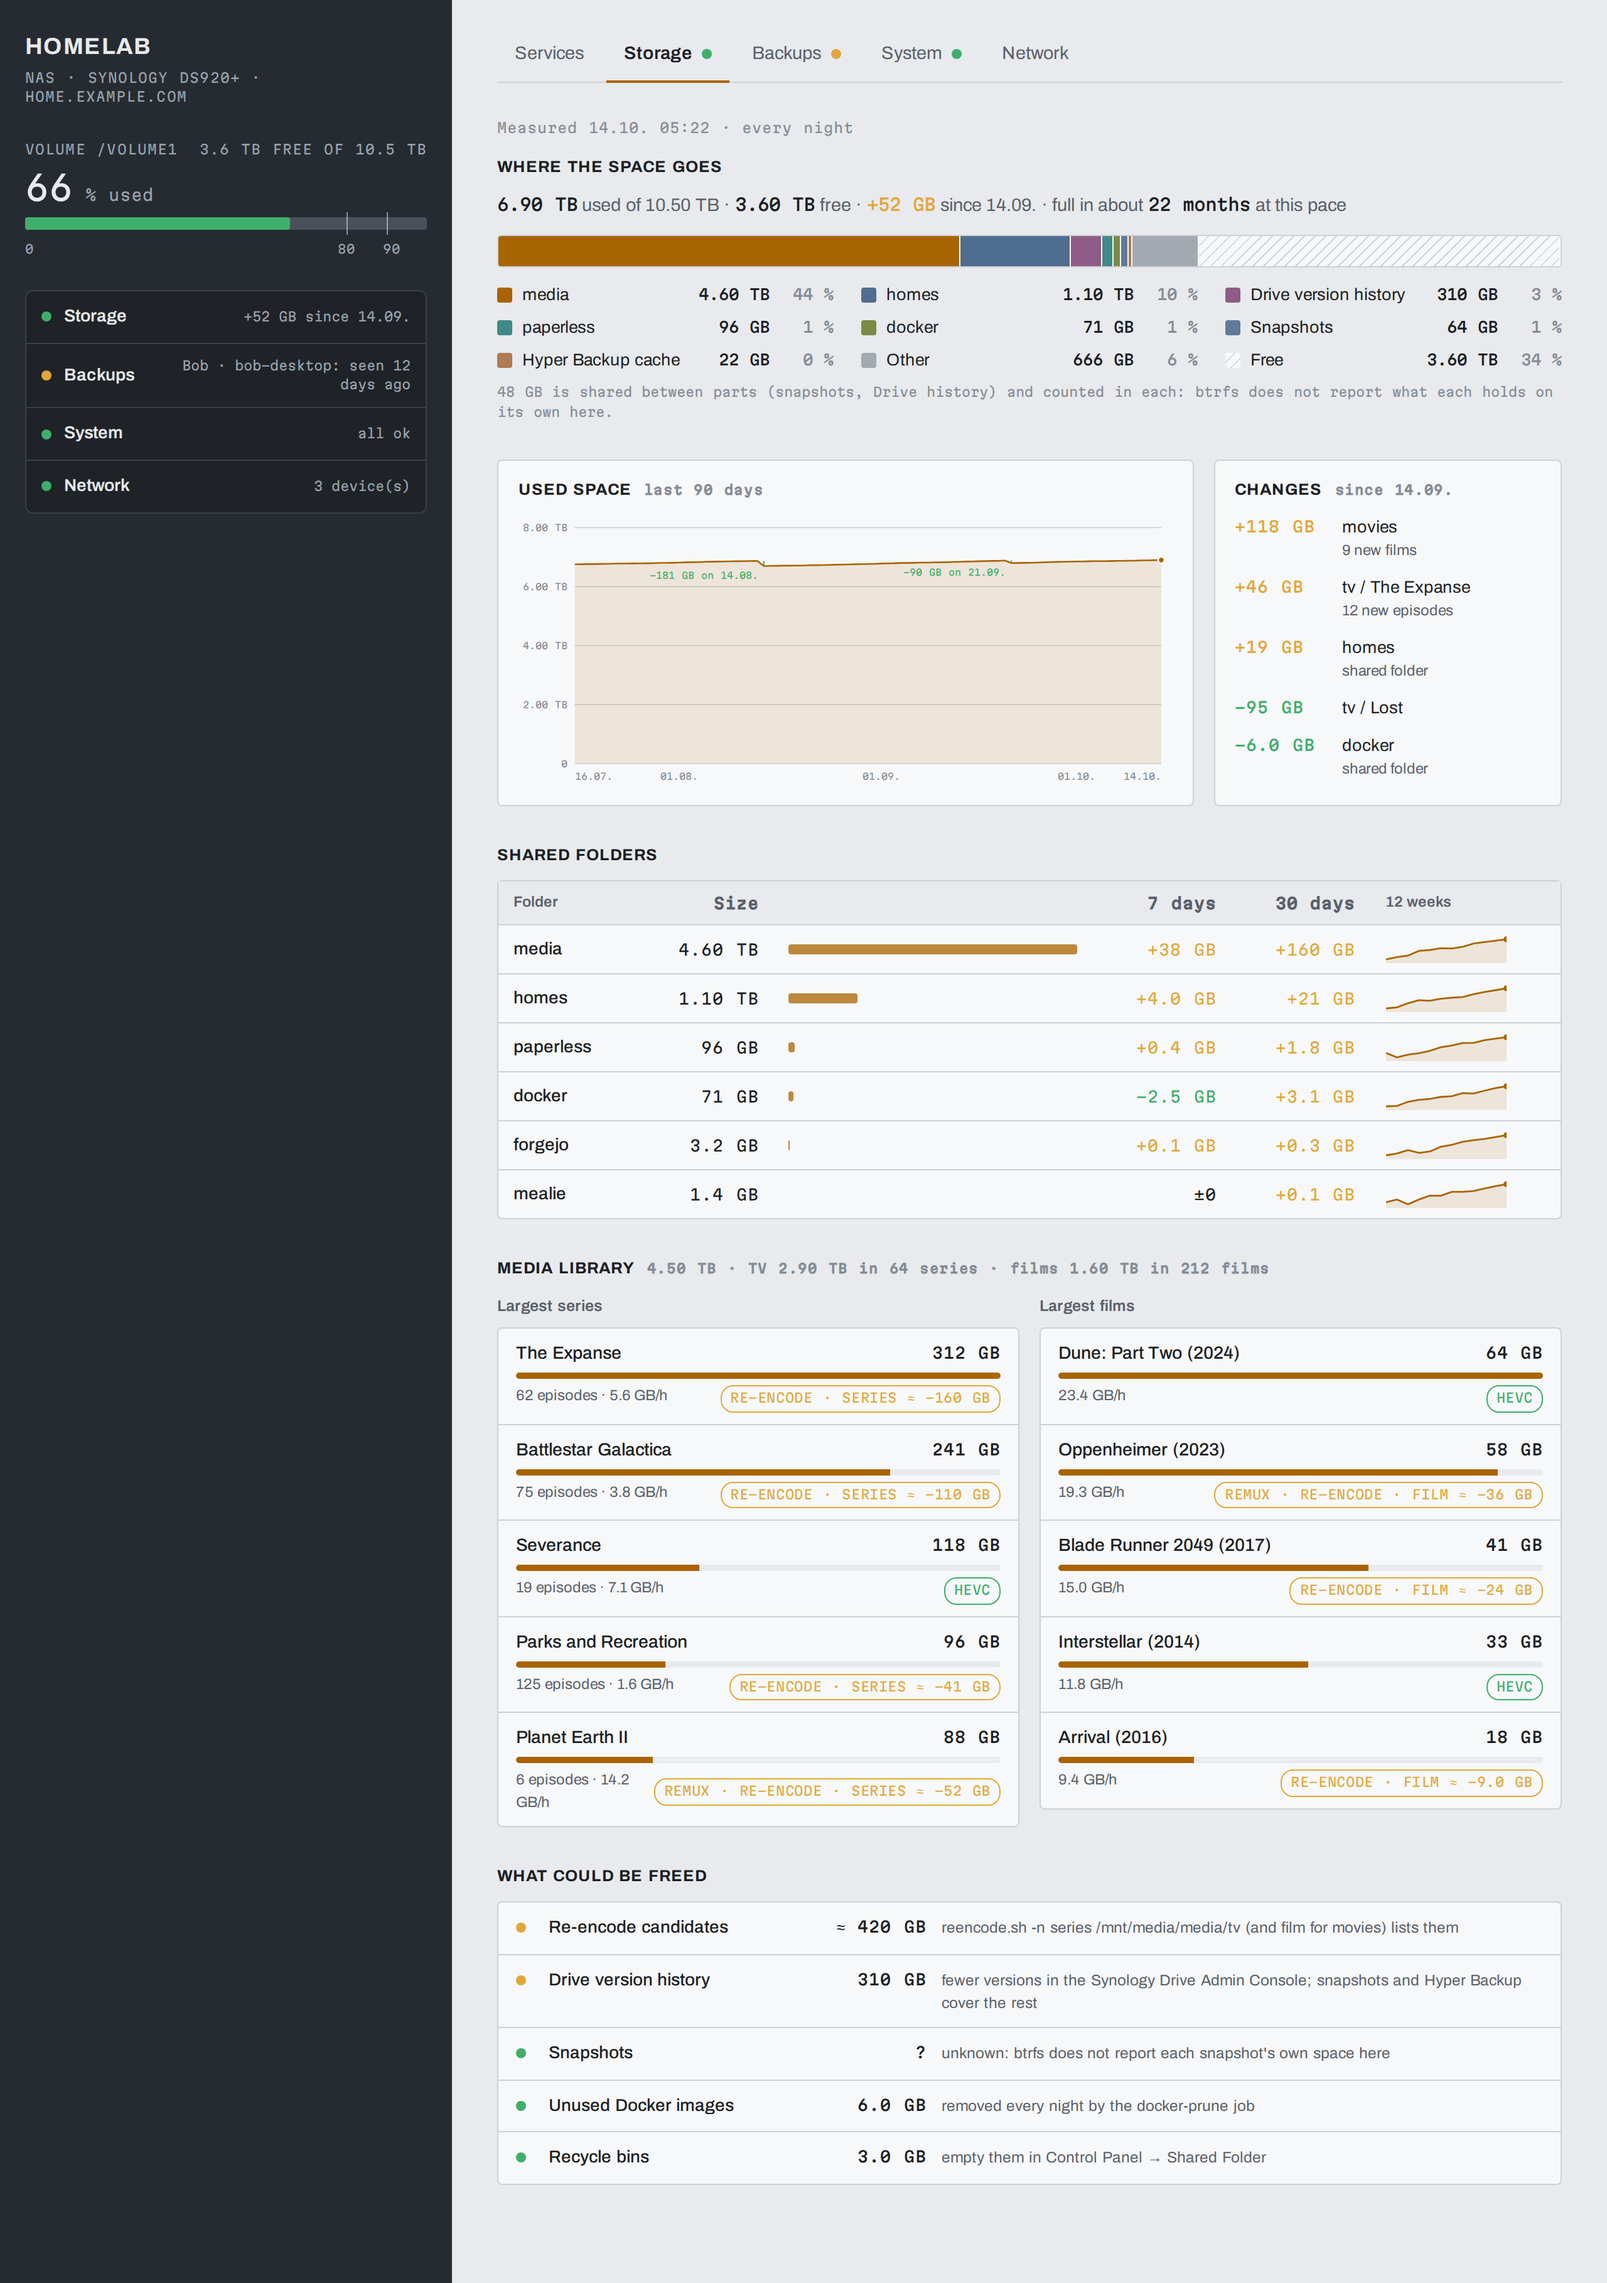
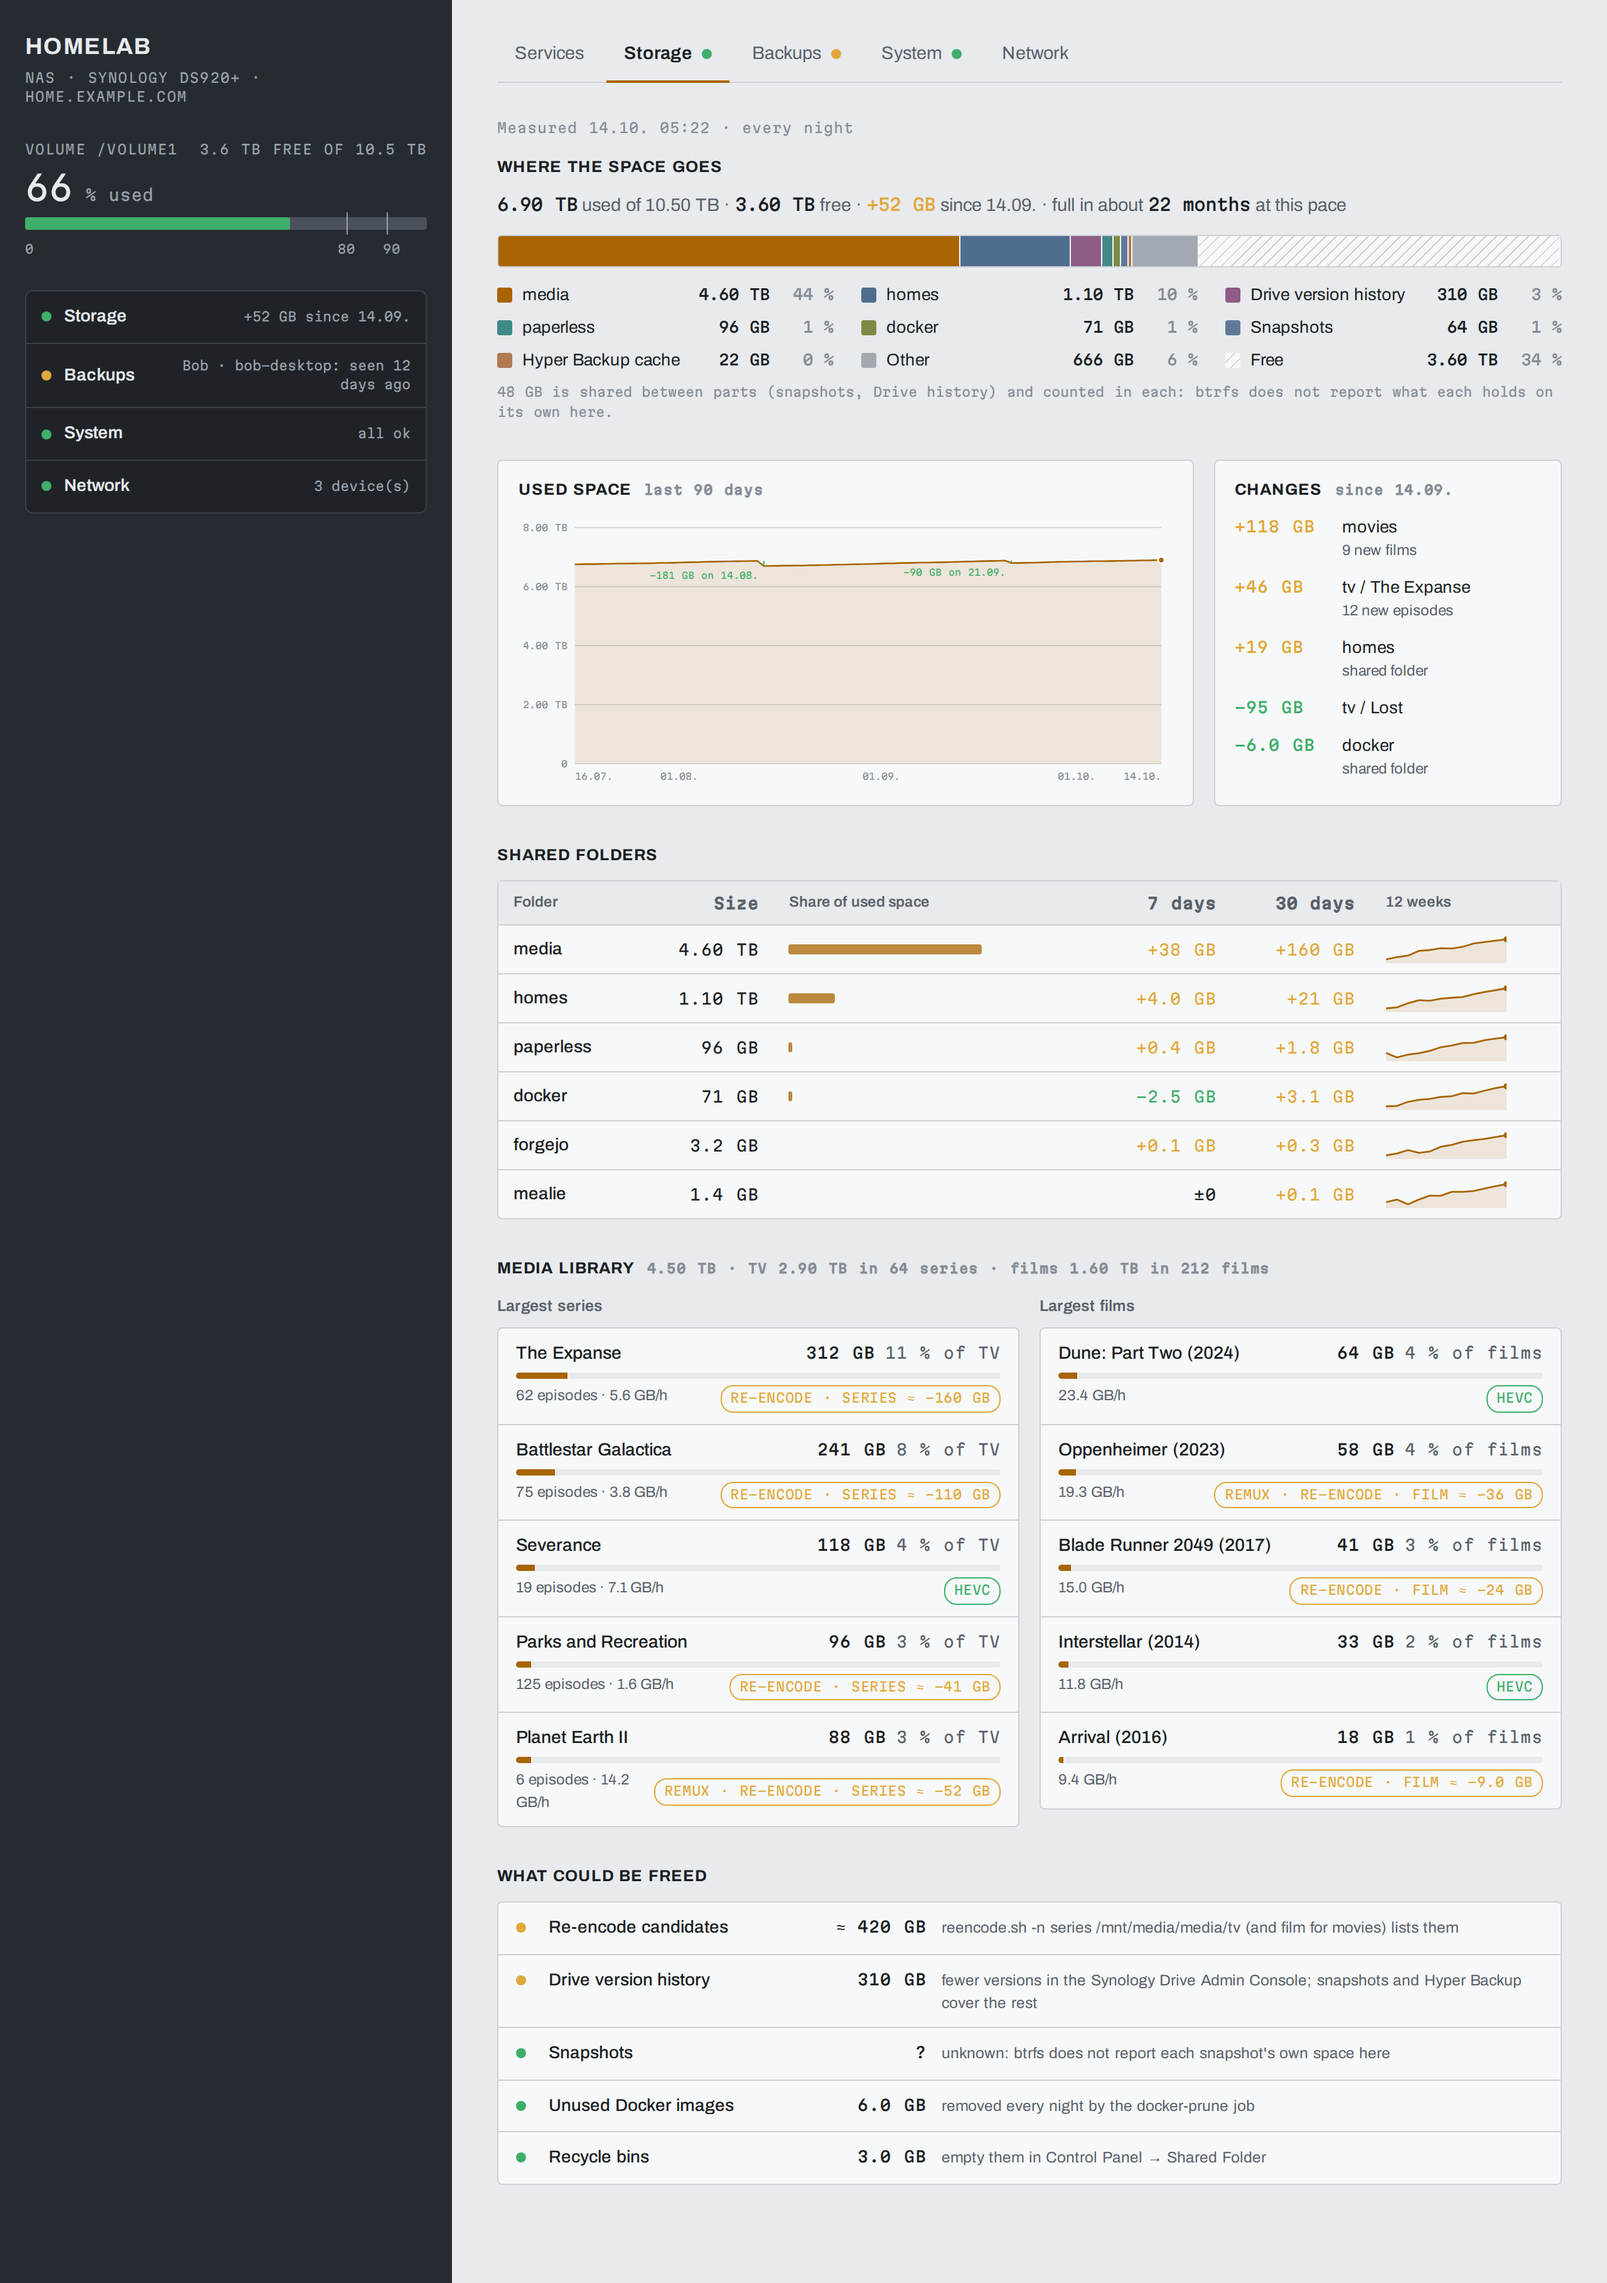
5 changes
- Dashboard: read snapshot names in UTC too
- Guide 11: MikroTik behind a Wi-Fi AP that is itself a router
- Dashboard: bars show a share of a whole, not of the largest row
- Lighter CI, Paperless and image pruning on the DS920+
- Dashboard: say how many containers have a healthcheck

Published-from: 67a83bf58e790482a94c073f86b9be682c977aec

Changed region(s): [[0.8125, 0.5905, 0.9688, 0.6526], [0.5, 0.5905, 0.625, 0.6526], [0.625, 0.404, 0.6562, 0.4351]]

diff --git a/stacks/dashboard/html/index.html b/stacks/dashboard/html/index.html
@@ -702,6 +702,7 @@
     .top small { color: var(--muted); font-size: 0.74rem; }
     .meter { height: 5px; background: var(--bg); border-radius: 3px; overflow: hidden; }
     .meter span { display: block; height: 100%; background: var(--c1); }
+    .top .share { color: var(--muted); font-weight: 400; margin-left: 8px; }
     .tag { font-family: var(--mono); font-size: 0.64rem; letter-spacing: 0.03em; padding: 2px 7px; border-radius: 10px;
         border: 1px solid currentColor; white-space: nowrap; }
     .tag.ok { color: var(--ok); } .tag.warn { color: var(--warn); } .tag.bad { color: var(--bad); }
@@ -1355,8 +1356,14 @@
             var healthy = cs.filter(function (c) { return c.health === 'healthy'; }).length;
             var since = Math.min.apply(null, cs.map(function (c) { return c.started || Infinity; }));
             var txt = up + '/' + cs.length + ' container' + (cs.length > 1 ? 's' : '') + ' running';
-            if (sick) { txt += ', ' + sick + ' unhealthy'; } else if (healthy) { txt += ', ' + healthy + ' healthy'; }
             if (up === cs.length && isFinite(since)) { txt += ', up ' + ago(since, now).replace(' ago', ''); }
+            // Only containers with a healthcheck report health; say how many have one.
+            var checked = sick + healthy;
+            if (sick) { txt += ' · ' + sick + ' unhealthy'; }
+            else if (checked) {
+                txt += ' · ' + (checked === cs.length ? 'all healthy'
+                    : 'healthcheck ok (' + checked + ' of ' + cs.length + ' have one)');
+            }
             return txt;
         }
         var rows = (st.stacks || []).map(function (k) {
@@ -1629,18 +1636,20 @@
         // ---- shared folders
         var s3 = section('Shared folders'), wrap = el('div', 'tbl-wrap'), t = el('table', 'ft');
         var head = el('tr');
-        [['Folder', ''], ['Size', 'num'], ['', ''], ['7 days', 'num'], ['30 days', 'num'], ['12 weeks', '']].forEach(function (c) { head.appendChild(el('th', c[1], c[0])); });
+        [['Folder', ''], ['Size', 'num'], ['Share of used space', ''], ['7 days', 'num'], ['30 days', 'num'], ['12 weeks', '']].forEach(function (c) { head.appendChild(el('th', c[1], c[0])); });
         var thead = el('thead');
         thead.appendChild(head);
         t.appendChild(thead);
         var tb = el('tbody'), shares = st.shares.slice().sort(function (a, b) { return b.bytes - a.bytes; });
-        var fmax = shares.length ? shares[0].bytes : 1;
+        // Bar = the folder's share of the used space, like the media lists.
+        var fmax = v.used || 1;
         shares.forEach(function (f) {
             var tr = el('tr');
             tr.appendChild(el('td', 'name', f.name));
             tr.appendChild(el('td', 'num', bytes(f.bytes)));
             var bc = el('td', 'barcell'), b = el('span', 'bar');
             b.style.width = (f.bytes / fmax * 100).toFixed(1) + '%';
+            b.title = Math.round(f.bytes / fmax * 100) + ' % of the used space';
             bc.appendChild(b);
             tr.appendChild(bc);
             [f.d7, f.d30].forEach(function (d) {
@@ -1666,12 +1675,17 @@
             [['Largest series', m.series.top, 'series'], ['Largest films', m.film.top, 'film']].forEach(function (c) {
                 var col = el('div');
                 col.appendChild(el('h4', null, c[0]));
-                var ol = el('ol', 'top'), max = c[1].length ? c[1][0].bytes : 1;
+                // Bar = this title's share of all TV (or all films), written out too.
+                var ol = el('ol', 'top'), all = c[2] === 'series' ? m.series.bytes : m.film.bytes;
+                var of = c[2] === 'series' ? 'TV' : 'films';
                 c[1].forEach(function (it) {
                     var li = el('li'), r1 = el('div', 'row1'), r2 = el('div', 'row2'), meter = el('div', 'meter'), fill = el('span');
                     r1.appendChild(el('span', 'title', it.name));
-                    r1.appendChild(el('b', null, bytes(it.bytes)));
-                    fill.style.width = (it.bytes / max * 100).toFixed(1) + '%';
+                    var pct = all ? it.bytes / all * 100 : 0;
+                    var size = el('b', null, bytes(it.bytes));
+                    size.appendChild(el('span', 'share', (pct < 1 ? '< 1' : Math.round(pct)) + ' % of ' + of));
+                    r1.appendChild(size);
+                    fill.style.width = pct.toFixed(1) + '%';
                     meter.appendChild(fill);
                     var meta = [];
                     if (c[2] === 'series') { meta.push(it.episodes + ' episode' + (it.episodes > 1 ? 's' : '')); }

diff --git a/docs/guides/11-notifications.md b/docs/guides/11-notifications.md
@@ -248,7 +248,7 @@ arrives and opens the document.
 pushes to `homelab`: a device on the LAN without a static lease (once per
 boot), internet down and back, a WireGuard peer connecting or going quiet. The
 router posts through Caddy, `https://ntfy.home.example.com`, so its DNS must
-resolve that name. Written without a router at hand: check each part as below.
+resolve that name. Tested on a hEX with a wAP ax behind it.
 
 1. Replace `ntfy.home.example.com` and `tk_REPLACE_ME` in the file, upload it
    (Files, or `scp ntfy.rsc admin@192.0.2.1:`), then `/import ntfy.rsc`.
@@ -264,13 +264,25 @@ resolve that name. Written without a router at hand: check each part as below.
    `/ip dhcp-server set … lease-script=…` line at the end of the file, with
    your server's name (`/ip dhcp-server print`). It replaces any existing
    lease-script.
-4. Known devices don't alert once their lease is static:
+4. A Wi-Fi access point that is itself a router (a MikroTik wAP's default:
+   its own DHCP and NAT, e.g. `192.168.88.x`) hands out the Wi-Fi devices'
+   addresses, so the main router never sees them join. Do steps 1–3 on the
+   AP too, attaching the lease script to its DHCP server, and remove the AP's
+   copies of the other two checks, which the main router already runs:
+   `/tool netwatch remove [find where comment~"^ntfy-inet"]` and
+   `/system scheduler remove [find where name="ntfy-wg"]`. Leave a guest
+   network's DHCP server out: every visitor would be "new".
+5. Known devices don't alert once their lease is static:
    `/ip dhcp-server lease make-static [find where mac-address="AA:BB:CC:DD:EE:FF"]`,
    or every current one with `[find where dynamic]`.
 
 **Check:**
 `:local s [:parse [/system script get ntfy-send source]]; $s title="Router test" message="hello"`
 arrives on the phone, and `/log print where message~"ntfy"` shows no error.
+A made-up device tests the lease script without a new one:
+`:local f [:parse [/system script get ntfy-dhcp source]]; $f bound=1 mac="02:00:00:00:00:99" ip="192.0.2.250" host="test-device"`.
+A device that was connected during `make-static` is known and stays quiet; to
+see a real alert, remove its lease, reconnect it, and make it static again.
 Then a new phone on the Wi-Fi gets "New device on the LAN", and a WireGuard
 peer that connects gets "VPN: … connected" within a minute. A phone without
 WireGuard keepalive that sits idle stops handshaking and shows as "gone

diff --git a/docs/guides/10-backups-and-jobs.md b/docs/guides/10-backups-and-jobs.md
@@ -68,7 +68,7 @@ The jobs and their times are in `scripts/jobs.conf` (git), not in DSM.
 | `forgejo-dump`     | after 20:00 (before the 20:40 S3 backup) | `forgejo dump`, renamed only when complete; keeps 14 days                                                                                                                                |
 | `mealie-backup`    | after 20:05 (before the 20:40 S3 backup) | Mealie's own backup (`POST /api/admin/backups`, inside the container), copied out, checked, renamed when complete; keeps 14 days                                                         |
 | `paperless-export` | after 20:10 (before the 20:40 S3 backup) | `document_exporter -d` into `PAPERLESS_DATA_ROOT/export`: incremental, mirrors the archive                                                                                               |
-| `docker-prune`     | after 04:30                              | deletes images no container uses and build cache, both older than a week                                                                                                                 |
+| `docker-prune`     | after 04:30                              | deletes images no container uses and build cache, both older than a week; keeps the images the CI workflows run in (Renovate's, `homelab-ci`)                                            |
 | `storage-scan`     | after 05:00                              | the dashboard's Storage tab: size per shared folder (btrfs), Docker, recycle bins, the media library (ffprobe in the Jellyfin container, new files only), and a daily history for trends |
 | `renovate-notify`  | after 07:00                              | pushes to ntfy what newly waits for approval on Renovate's Dependency Dashboard ([11](11-notifications.md)); once per update                                                             |
 | `build-images`     | every tick                               | builds locally built images (paperless-tarmed) when their code changed; dashboard shows amber "update waiting" until redeployed                                                          |

diff --git a/stacks/forgejo-runner/README.md b/stacks/forgejo-runner/README.md
@@ -50,6 +50,15 @@ server:
 
 ## Gotchas
 
+- **The `checks` workflow runs in `homelab-ci:1`**, an image with its tools
+  baked in (`.forgejo/ci/Dockerfile`: git, shellcheck, jq, gitleaks, uv, Node
+  and prettier), built on the NAS by the `build-images` job and only when that
+  folder changes. A push no longer apt-gets and downloads its tools. The runner
+  uses the local image and never pulls it: right after a fresh install, or if
+  the image was pruned, jobs fail with `pull access denied for homelab-ci`
+  until the next scheduler tick has built it (or run `scripts/build-images.sh
+.forgejo/ci=homelab-ci:1` by hand).
+
 - **Register with `forgejo-cli`, not a web UI token:** `forgejo-runner register --token …`
   fails with `invalid_argument: runner registration token not found` and is deprecated.
 - **Data wiped?** Re-register with the **same secret** (same UUID) and rewrite

diff --git a/stacks/paperless/README.md b/stacks/paperless/README.md
@@ -17,6 +17,15 @@ This page is the reference.
 
 ## Gotchas
 
+- **`PAPERLESS_OCR_MODE: redo` is deliberate.** The default `auto` treats a
+  merged PDF (a digital cover letter with scanned pages) as already having
+  text and never OCRs the scans, so paperless-tarmed finds no bill. It costs
+  OCR on every page, which is why OCR is capped at 2 of the NAS's 4 cores
+  (`PAPERLESS_TASK_WORKERS: 1`, `PAPERLESS_THREADS_PER_WORKER: 2`), and the
+  classifier trains every 6 hours, mail is checked every 30 minutes
+  (`PAPERLESS_TRAIN_TASK_CRON`, `PAPERLESS_EMAIL_TASK_CRON`; defaults hourly
+  and every 10 minutes).
+
 - **OIDC must match Authelia.** `provider_id` `authelia` fixes the callback
   `https://paperless.<internal-domain>/accounts/oidc/authelia/login/callback/`
   (= Authelia's `redirect_uris`); `client_id` `paperless`; the secret here is

diff --git a/stacks/dashboard/README.md b/stacks/dashboard/README.md
@@ -104,7 +104,7 @@ Which devices: `uploaders.conf` next to `jobs.env` (`UPLOADERS_CONF` overrides),
 ## Stacks
 
 The System tab lists every Portainer stack, with a detail line: the commit and
-date it was deployed, and its containers (running / total, health, uptime). Its
+date it was deployed, and its containers (running / total, uptime, and the result of those that have a healthcheck). Its
 state:
 
 - **up to date**: the commit Portainer deployed includes the last commit that touched the stack's folder
